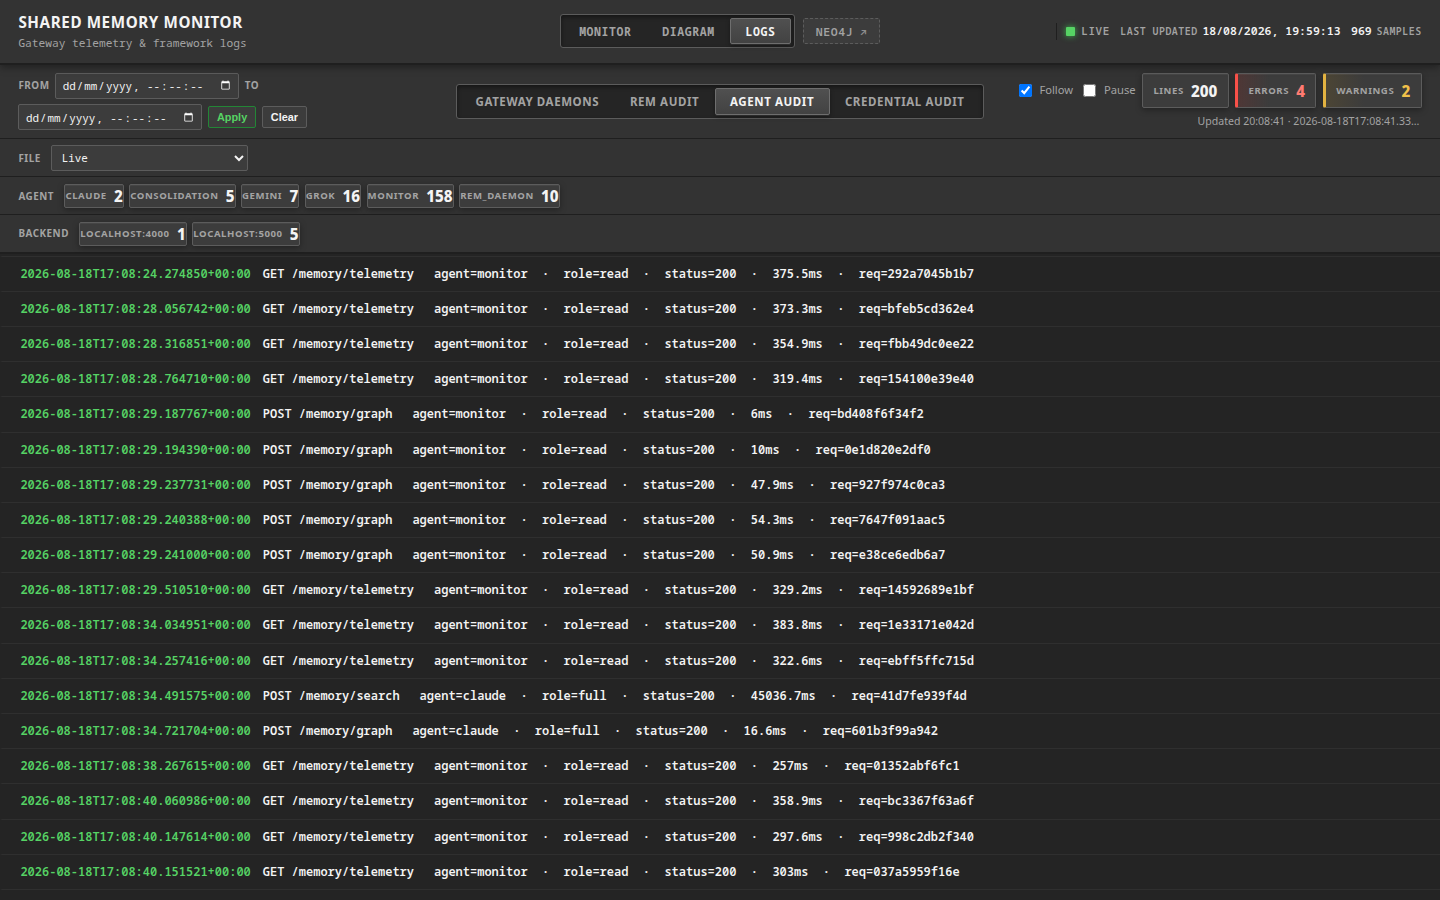
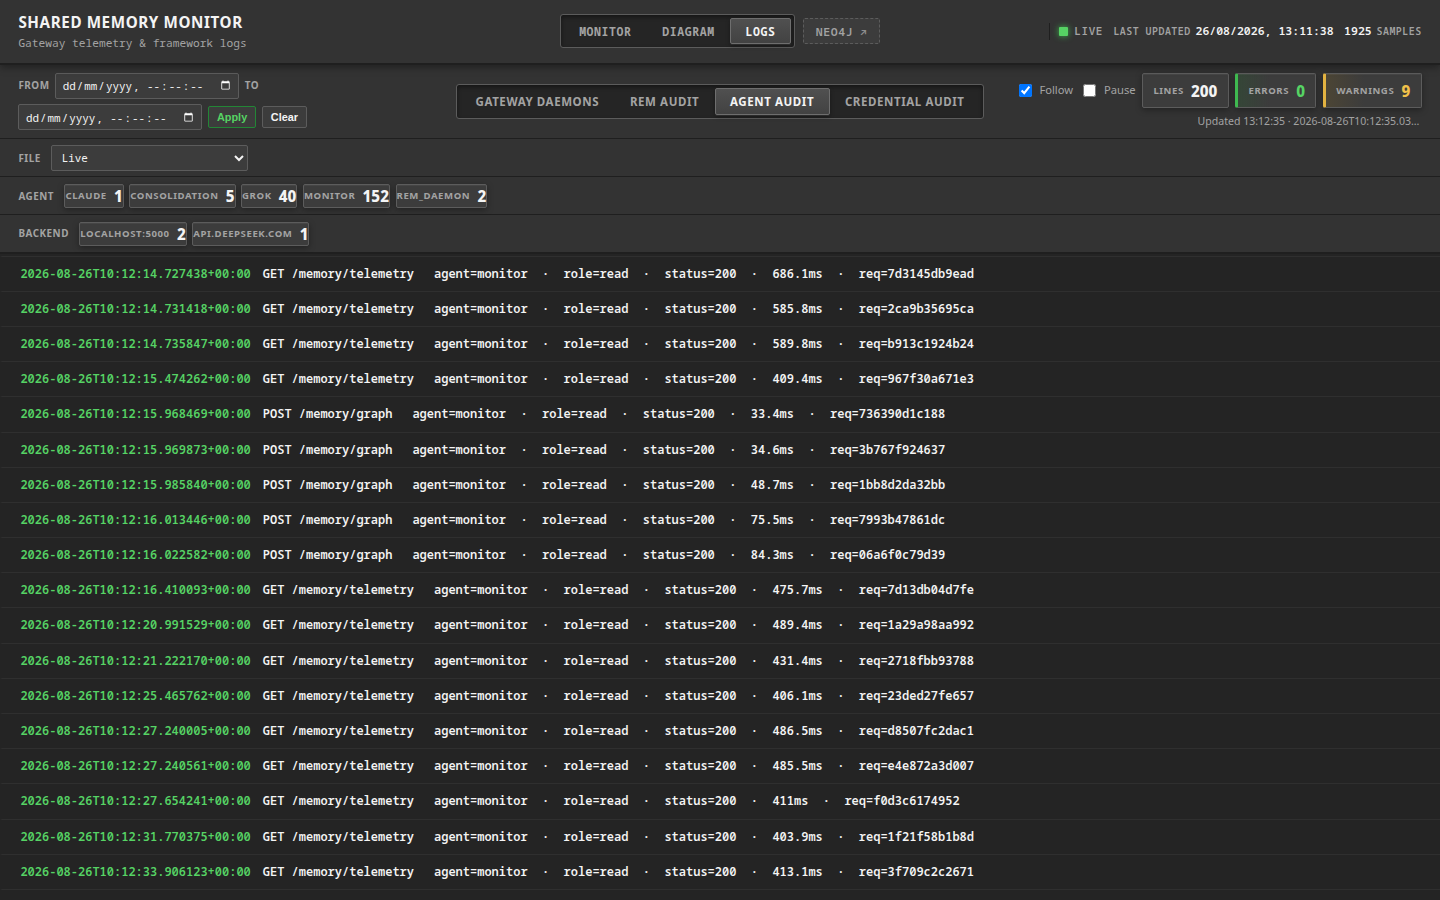
docs: recapture screenshots and align telemetry copy with v0.9.20
Live captures against gateway 0.9.60: dashboard, consolidation,
latency drawer (wall-timed DeepSeek), schema, diagram, logs.
README/AGENTS/SISTER now name front-door vs LLM-door credentials
and wall/mixed by_model rows.

diff --git a/scripts/capture_screenshots.py b/scripts/capture_screenshots.py
@@ -46,6 +46,13 @@ PAGES: list[PageSpec] = [
         "open": "#consolidation-card",
     },
     {
+        "name": "latency.png",
+        "path": "/",
+        "viewport": {"width": 1440, "height": 900},
+        "element": "#latency-drawer",
+        "open": "#latency-card",
+    },
+    {
         "name": "diagram.png",
         "path": "/diagram?capture=1",
         "viewport": {"width": 1280, "height": 900},
@@ -127,13 +134,19 @@ def main() -> None:
                 page.wait_for_timeout(600)
                 page.evaluate(_SCHEMA_EXPAND_JS)
                 page.wait_for_timeout(200)
+            if spec["name"] == "latency.png":
+                page.wait_for_timeout(400)
+                page.evaluate(_SCHEMA_EXPAND_JS.replace("schema-drawer", "latency-drawer").replace("schema-content", "latency-content"))
+                page.wait_for_timeout(200)
             opener = spec.get("open")
             if opener:
                 page.wait_for_selector(opener, timeout=60_000)
                 page.click(opener)
-                page.wait_for_selector("#consolidation-drawer.open", timeout=60_000)
-                page.wait_for_selector("#consolidation-content:not([hidden])", timeout=60_000)
-                page.wait_for_timeout(600)
+                drawer = spec.get("element") or "#consolidation-drawer"
+                page.wait_for_selector(f"{drawer}.open", timeout=60_000)
+                content = "#latency-content" if "latency" in drawer else "#consolidation-content"
+                page.wait_for_selector(f"{content}:not([hidden])", timeout=60_000)
+                page.wait_for_timeout(800)
             target = OUT / name
             element = spec.get("element")
             if element:

diff --git a/README.md b/README.md
@@ -22,7 +22,7 @@ This sister repository is that picture. It does not install databases or daemons
 Three browser pages, one job each:
 
 1. **See** — **Monitor** (`/`) and **Diagram** (`/diagram`). Pipeline pressure, infrastructure health, LLM pool, topology. Telemetry is the signal.
-2. **Attend** — warnings, stalled consolidation, a warning on an LLM pool chip or last-event fault on a backend. Something asks for a closer look; open a drawer or click a chip.
+2. **Attend** — warnings, stalled consolidation, a warning on an LLM pool chip, a last-event fault on a backend, or a **gateway door** hint (`token verify failed` / audit log dropped — those are skill→gateway auth, not LLM faults). Something asks for a closer look; open a drawer or click a chip.
 3. **Find the detail** — **Logs** (`/logs`). Journal, REM audit, agent audit, credential audit. Filters and a File picker for live and rotated files. Logs are the detail; the dashboard never replaces them.
 
 Telemetry = signal. Logs = detail. The monitor never blurs that line.
@@ -128,7 +128,7 @@ Captured from a running monitor (`./scripts/capture-screenshots.sh`).
 
 ### Monitor — the glance that starts the day
 
-Same frame as the hero under the title. Gateway health, a status deck (drill-downs, backlog and queues, backup and infrastructure), LLM pool chips when more than one backend is configured, and backlog charts from the poll cache. Range (`1h`–`all`) scopes history; live health still comes from `GET /health`. On framework **≥ 0.8.9**, pool chips badge **local** or **external** from non-secret `has_credential` — no API keys ever appear.
+Same frame as the hero under the title. Gateway health, a status deck (drill-downs, backlog and queues, backup and infrastructure), LLM pool chips when more than one backend is configured, and backlog charts from the poll cache. Range (`1h`–`all`) scopes history; live health still comes from `GET /health`. On framework **≥ 0.8.9**, pool chips badge **local** or **external** from non-secret `has_credential` — no API keys ever appear. Front-door `token_verify_failed` / `audit_log_dropped` land on the Infrastructure hint, not on the LLM pool line; `credentialed_route_denied` stays with the pool.
 
 ![Monitor — status deck, infrastructure, LLM pool, backlog](docs/images/dashboard.png)
 
@@ -137,6 +137,12 @@ Same frame as the hero under the title. Gateway health, a status deck (drill-dow
 From **Drill-down → Data Quality & Processing**. Consolidation liveness and last outcomes, how much of the REM-processed set is consolidated versus still waiting, first-write quality and schema-growth candidates, and REM reliability (dead-lettered, failing, fairness instruments when the gateway provides them). If the tile is quiet, you rarely need this drawer; when it is not, this is the first place to look before the journal.
 
 ![Data Quality & Processing drawer](docs/images/consolidation.png)
+
+### Throughput & latency — enrichment timing, including online models
+
+From **Drill-down → Throughput & latency**. Per-model REM bars split model compute vs queue wait when the backend reports llama.cpp `service_ms`. External OpenAI-compatible models (framework **≥ 0.9.60**) appear as `timing_source: wall` rows: wall p50/p95 with service/wait as **N/A**, not a missing row and not a fake 100% service bar. `n_service` sits beside service; `n` beside wall.
+
+![Throughput & latency drawer](docs/images/latency.png)
 
 ### Schema & Integrity — shape of the graph, not the fold
 
@@ -241,9 +247,9 @@ Charts read the **poll cache**. Live panels call `bridge.py` or `logs_reader.py`
 
 ### Monitor (`/`)
 
-Start at the status deck. **Gateway health** is the headline; hover for a short summary. **Drill-down** tiles open drawers only when you need them — consolidation when fold pressure or stalls matter, throughput when enrichment or cycle latency is the question, schema when inventory or graph hygiene is the question. **Backlog & queues** and the charts answer “is the dream cycle keeping up?” **Infrastructure** is the component grid (gateway, embed, rerank, LLM, NREM, REM) plus config summary from `/health`.
+Start at the status deck. **Gateway health** is the headline; hover for a short summary. **Drill-down** tiles open drawers only when you need them — consolidation when fold pressure or stalls matter, throughput when enrichment or cycle latency is the question (including wall-timed external models), schema when inventory or graph hygiene is the question. **Backlog & queues** and the charts answer “is the dream cycle keeping up?” **Infrastructure** is the component grid (gateway, embed, rerank, LLM, NREM, REM) plus config summary from `/health`. A **gateway door** line on that hint is a failed or missing bearer at the gateway front door — not an LLM-backend fault.
 
-When the gateway has more than one LLM backend, the **LLM pool** panel shows in-flight work, routing, and placement. A warning or last-event fault on a chip is a cue, not a full post-mortem: click through to credential or agent audit for that backend. Single-backend installs keep the simpler busy/idle picture on the LLM tile.
+When the gateway has more than one LLM backend, the **LLM pool** panel shows in-flight work, routing, and placement. A warning or last-event fault on a chip (`credentialed_route_denied`, `llm_faults`) is a cue, not a full post-mortem: click through to credential or agent audit for that backend. Single-backend installs keep the simpler busy/idle picture on the LLM tile.
 
 Range selector filters the local poll cache only; it does not change what the gateway currently reports for live tiles.
 

diff --git a/AGENTS.md b/AGENTS.md
@@ -147,7 +147,7 @@ telemetry: ok · nrem+breakdown+consolidation+entity_graph+latency+spine+complia
 | `nrem` + `breakdown` | Backlog / NREM + Schema drawer Postgres panels |
 | `consolidation` | Consolidation tile + drawer |
 | `entity_graph` | Graph health band in Consolidation drawer |
-| `latency` | Throughput & latency drawer |
+| `latency` | Throughput & latency drawer; **≥ 0.9.60** `wall_ms` / `n_service` / `timing_source` (`server`\|`wall`\|`mixed`) so external models are listed with N/A service columns |
 | `spine` / `compliance` | First-write quality / schema conformance bands |
 | `graph_integrity` | Graph integrity band in Schema drawer (write-path defect detection) |
 | `llm_faults` | Per-backend fault counts on pool chips (framework **≥ 0.9.4**) |
@@ -295,7 +295,7 @@ Before cutting any new tag or release on GitHub, agents must verify all 4 checkp
 2. **Automated Audit**:
    - Run `./scripts/pre-publish-check.sh` (fails automatically if any doc or test file is on an older version).
 3. **UI Screenshots**:
-   - If UI layout or drawers were modified, refresh all 5 screenshots in `docs/images/` (`dashboard.png`, `consolidation.png`, `schema-breakdown.png`, `diagram.png`, `logs.png`).
+   - If UI layout or drawers were modified, refresh screenshots in `docs/images/` (`dashboard.png`, `consolidation.png`, `latency.png`, `schema-breakdown.png`, `diagram.png`, `logs.png`).
 4. **Build & Release Upload**:
    - Run `uv build` to produce wheel and sdist package distributions.
    - Run `gh release create vX.Y.Z` and attach built dist files (`gh release upload vX.Y.Z dist/*`).

diff --git a/docs/SISTER_PROJECT.md b/docs/SISTER_PROJECT.md
@@ -23,7 +23,7 @@ The monitor never imports framework Python code. **No third data path** in monit
 |-------|---------|
 | `GET /health` | Infrastructure grid (embedder, LLM, daemons); `version` + `api_version` for client compat; non-secret `config` (LLM backends + weights; **≥0.8.9** `has_credential` + optional `model`; **≥0.9.13** roles / `n_ctx` / `private_ok` / prices); multi-backend `llm_pool` / affinity; **≥0.9.13** `llm_routing` + `llm_token_usage` |
 | `GET /pool/status` | Dream-job `free_slots` + per-backend `serves_all` / `counts_free_slot` (framework **≥0.9.13**; monitor v0.9.19+) |
-| `GET /memory/telemetry` | Pipeline metrics, `nrem`, `breakdown`, `spine`, `compliance`, `latency`, `entity_graph`, `consolidation`; **≥0.9.4** `llm_faults` + `credentials`; **≥0.9.8** `credentials.*_last_ts` siblings; **≥0.9.9** `credentialed_route_denied` |
+| `GET /memory/telemetry` | Pipeline metrics, `nrem`, `breakdown`, `spine`, `compliance`, `latency` (**≥0.9.60** `rem_ms.by_model` `wall_ms` / `n_service` / `timing_source` / `backend`), `entity_graph`, `consolidation`; **≥0.9.4** `llm_faults` + `credentials`; **≥0.9.8** `credentials.*_last_ts` siblings; **≥0.9.9** `credentialed_route_denied` |
 | `POST /memory/graph` | Neo4j schema panels (read-only Cypher, server-side guard) |
 
 **Client API version:** Monitor **v0.9.20** sets `bridge.API_VERSION = 4` to match

diff --git a/CHANGELOG.md b/CHANGELOG.md
@@ -6,6 +6,11 @@ Format based on [Keep a Changelog](https://keepachangelog.com/en/1.1.0/).
 
 ## [Unreleased]
 
+### Changed
+- README screenshots recaptured from a live 0.9.60 gateway (including the
+  Throughput & latency drawer). Copy now names front-door vs LLM-door
+  credentials and wall-timed external models.
+
 ## [0.9.20] - 2026-08-26
 ### Changed
 - Consume framework **0.9.60** `latency.rem_ms.by_model` additive keys:
